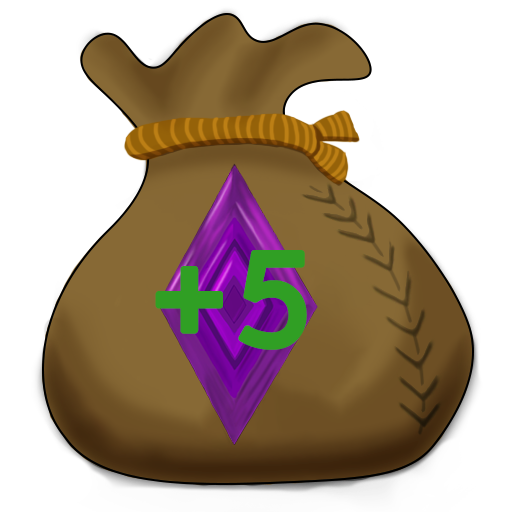
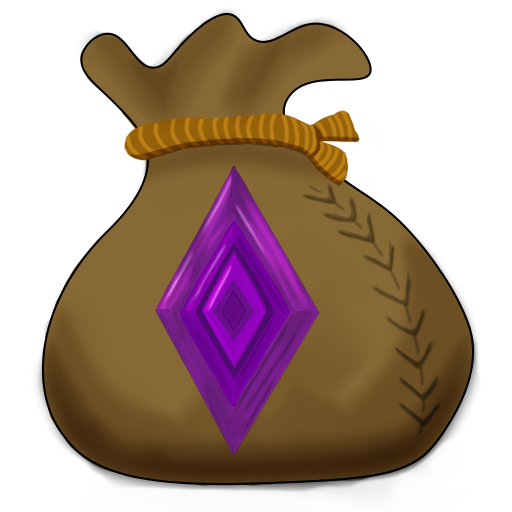
Gem Bag implemented, goblin speed reduced

Changed region(s): [[0.2812, 0.3438, 0.625, 0.9062], [0.4375, 0.3125, 0.4688, 0.3438]]

diff --git a/Assets/Scripts/Systems/Buttons.cs b/Assets/Scripts/Systems/Buttons.cs
@@ -80,11 +80,13 @@ public class Buttons : MonoBehaviour
         yield return new WaitForSecondsRealtime(1f);
 
         //Send the damage the player took as an email - only if in build, not editor
+        /*
         if (!Application.isEditor)
         {
             //print("We are running this from inside of the editor!");
             PlayerController.Instance.GetComponent<DamageTracker>().DisplayDamage();
         }
+        */
 
         yield return new WaitForSecondsRealtime(1f);
 

diff --git a/Assets/Scripts/Items/Item.cs b/Assets/Scripts/Items/Item.cs
@@ -181,6 +181,12 @@ public class Item : MonoBehaviour
                 //print("Alright time to open up the stat potion upgrade panel!");
                 HUDController.Instance.ShowStatPotionPanel(); //Opens up the Upgrade Stat Potion Panel
             }
+
+            //Gem Bag
+            else if (item.ItemName == "Gem Bag")
+            {
+                PlayerController.Instance.GetComponent<PlayerGems>().AddGems(5);
+            }
         }
 
 
